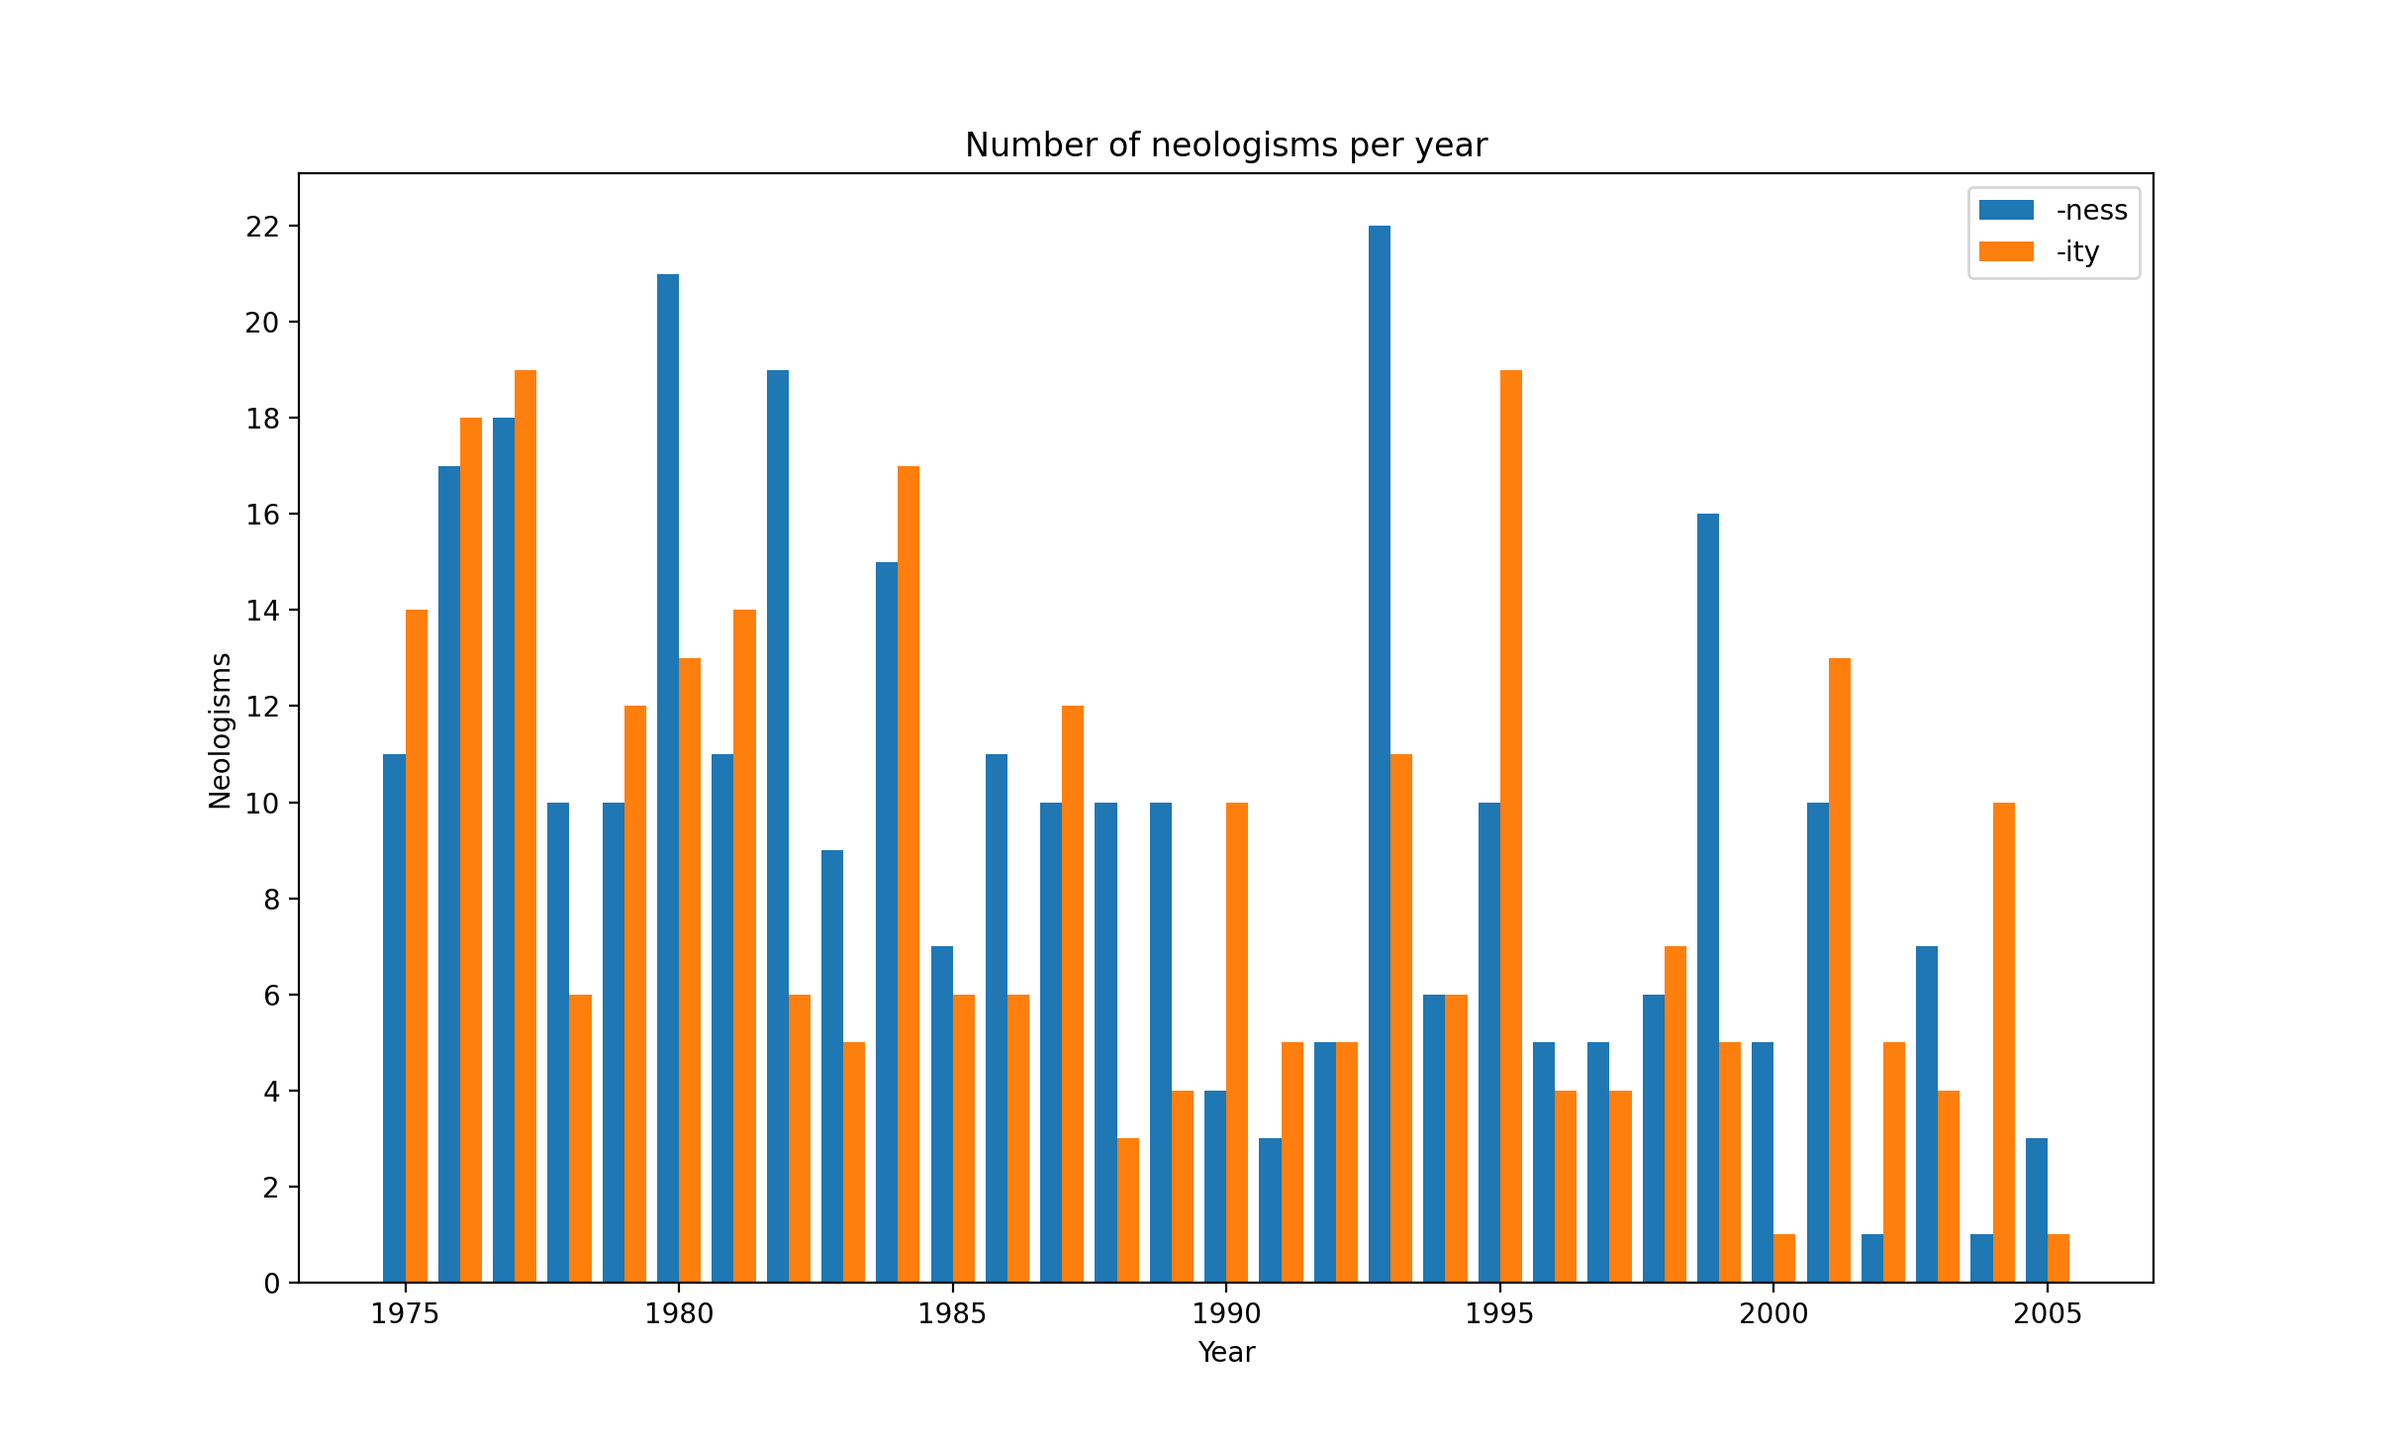
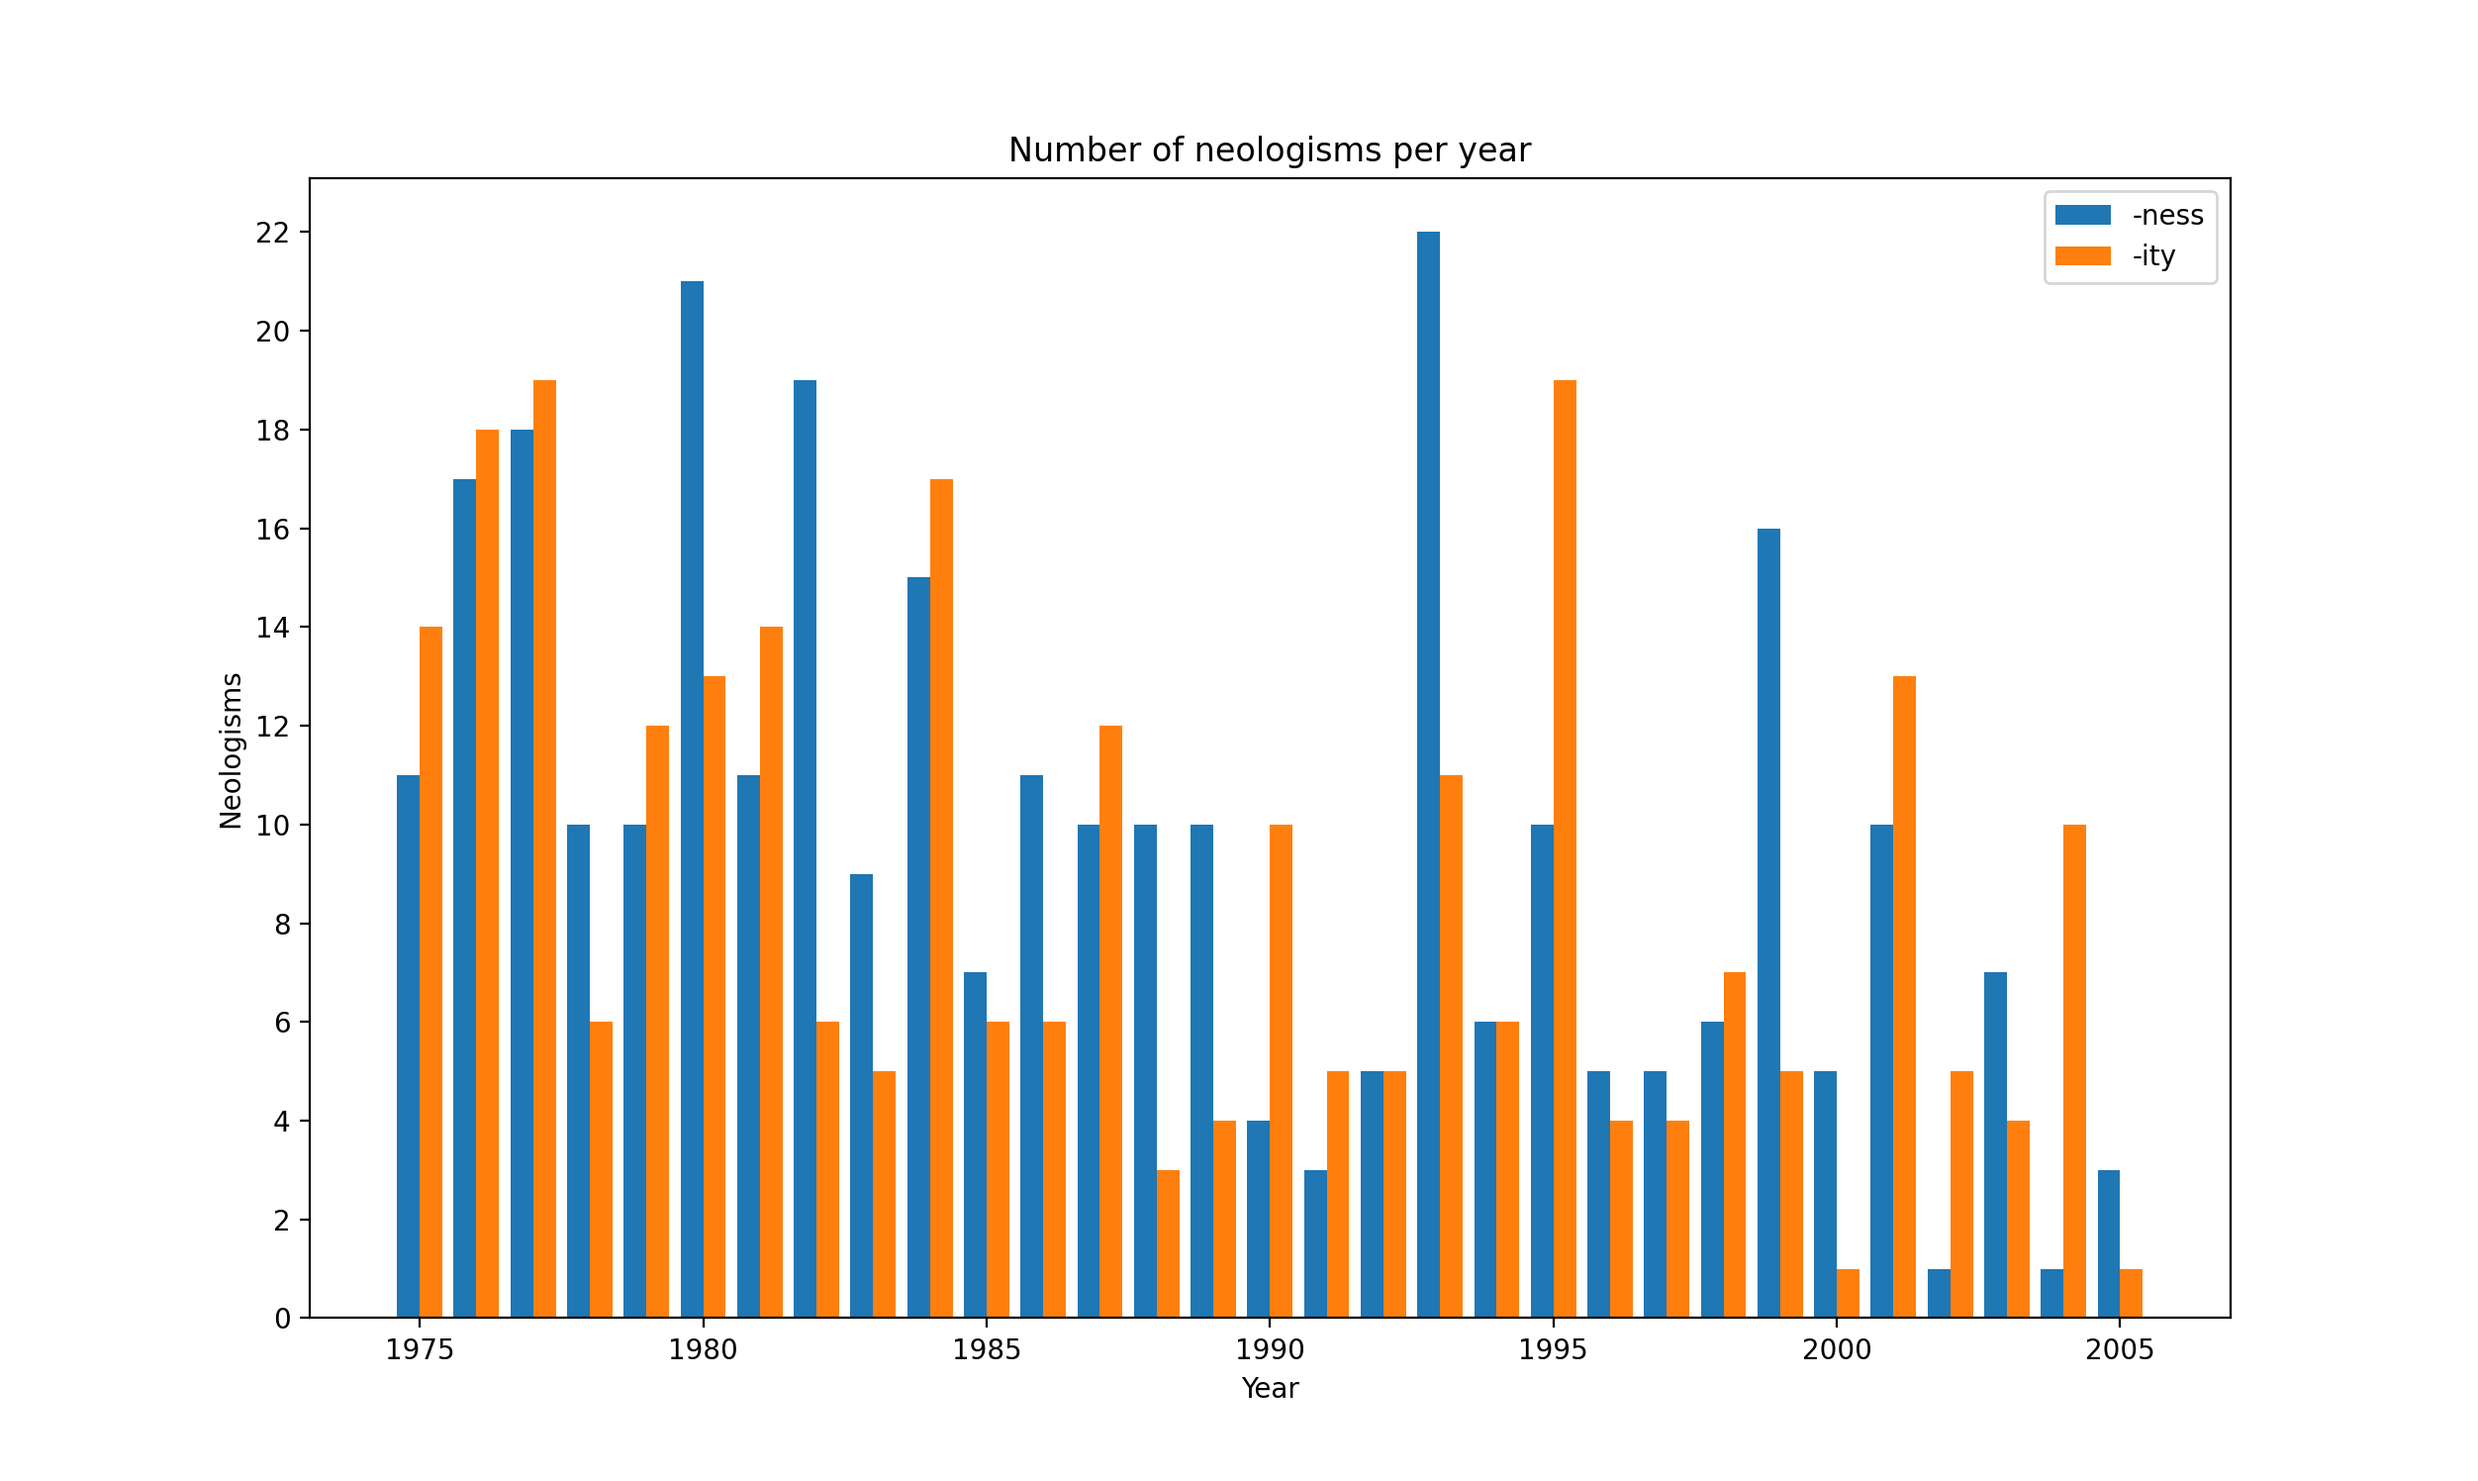
Change to more muted (and consistent) color scheme

diff --git a/plot_data.py b/plot_data.py
@@ -25,10 +25,10 @@ slope1, b1 = np.polyfit(years, ness_percent_neologisms, 1)
 slope2, b2 = np.polyfit(years, ity_percent_neologisms, 1)
 # convert to np arrays
 
-plt.plot(years, ness_percent_neologisms, 'ro')
-plt.plot(years, ity_percent_neologisms, 'bo')
-plt.plot(years, (years*slope1 + b1), 'red')
-plt.plot(years, (years*slope2 + b2), 'blue')
+plt.plot(years, ness_percent_neologisms, 'C0o')
+plt.plot(years, ity_percent_neologisms, 'C1o')
+plt.plot(years, (years*slope1 + b1), 'C0')
+plt.plot(years, (years*slope2 + b2), 'C1')
 plt.legend(['-ness', '-ity'])
 plt.title('% neologisms per year')
 plt.xlabel('Year')
@@ -37,8 +37,8 @@ plt.show()
 
 # we can also plot the actual # of neologisms per year. Of course, be wary that each year has a different number of documents, and therefore words, in it.
 width = .4
-plt.bar(years - (width / 2), ness_neologisms, width=width, label='-ness')
-plt.bar(years + (width / 2), ity_neologisms, width=width, label='-ity')
+plt.bar(years - (width / 2), ness_neologisms, width=width, label='-ness', color='C0')
+plt.bar(years + (width / 2), ity_neologisms, width=width, label='-ity', color='C1')
 max_neologisms = max(max(ness_neologisms), max(ity_neologisms))
 plt.yticks(range(0, max_neologisms + 1, 2))
 # plt.xticks(years + width / 2)
